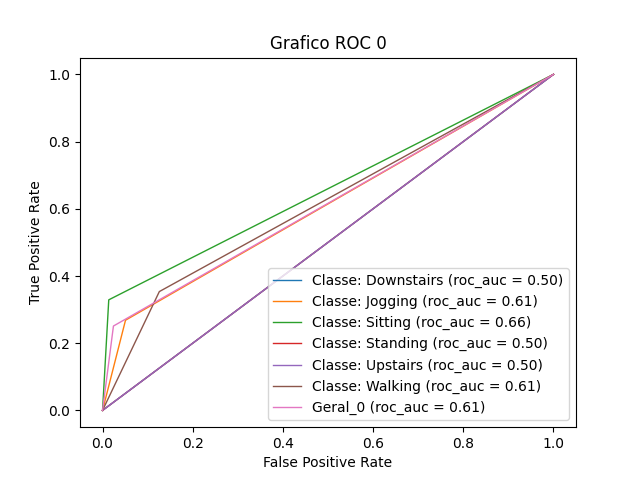
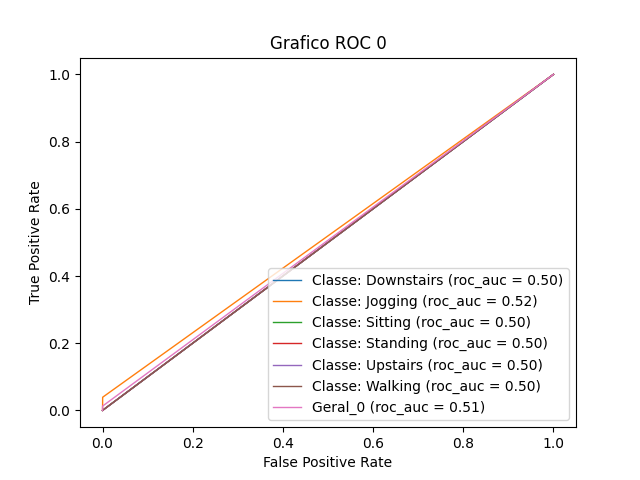
penso que esteja finalizado

diff --git a/original.py b/original.py
@@ -10,13 +10,14 @@ import numpy as np
 from sklearn.preprocessing import LabelEncoder
 from sklearn.neural_network import MLPClassifier
 from sklearn.preprocessing import OneHotEncoder
-from sklearn.metrics import auc, roc_curve, accuracy_score
-from sklearn.model_selection import learning_curve
+from sklearn.metrics import auc, roc_curve, confusion_matrix
 import matplotlib.pyplot as plt
 
 # create instances
 # recebe o numero de timesteps
 # cria as instancias e guarda num ficheiro
+
+
 def create_instances(t):
     # ler ficheiro
     tempo = 20*t
@@ -62,7 +63,7 @@ def create_instances(t):
                 else:
                     break
             if (aux == tempo):
-            # adicionar a linha ao instance
+                # adicionar a linha ao instance
                 linha = "".join(linha) + "," + str(atividade_i) + "," + id_i
 
                 instance.append(linha)
@@ -74,6 +75,8 @@ def create_instances(t):
 # create k fold sets
 # recebe o numero de fold sets
 # cria os k fold sets com ids diferentes e forma logo os ficheros de treino e teste para cada fold set
+
+
 def create_k_fold_sets(k):
     # criar k_fold_sets
     k_fold_sets = []
@@ -89,7 +92,7 @@ def create_k_fold_sets(k):
         ids = len(ids)
         # vai existir ids/k fold sets (sempre arredondado para baixo)
         id_fold_set = ids//k
-        id_fold_set_rest = ids%k
+        id_fold_set_rest = ids % k
         # percorrer o ficheiro e meter id_fold_set em cada fold set
         aux = -1
         ids_aux = []
@@ -103,7 +106,7 @@ def create_k_fold_sets(k):
             linha = linha.split(",")
             id_i = linha[-1]
             # se o id nao estiver no fold set e ainda nao tiver todos os ids volta do inicio
-            if id_i not in ids_: 
+            if id_i not in ids_:
                 aux = aux + 1
                 ids_.append(id_i)
             ids_aux[aux].append(lines[i])
@@ -155,7 +158,7 @@ def normalize(k):
     for n in range(k):
         with open("csv/train/train_set_"+str(n)+".csv", "r") as f:
             lines = f.readlines()
-                # criar array com os valores maximos e minimos
+            # criar array com os valores maximos e minimos
             max_min = []
             tamanho = lines[0].replace("\n", "")
             tamanho = tamanho.split(",")
@@ -195,11 +198,9 @@ def normalize(k):
                 linha = linha.split(",")
                 linha_str = ""
                 for j in range(tamanho):
-                    linha[j] = (float(linha[j]) - max_min[j][0]) / \
-                        (max_min[j][1] - max_min[j][0])
+                    linha[j] = (float(linha[j]) - max_min[j][0]) / (max_min[j][1] - max_min[j][0])
                     if j == tamanho-1:
-                        linha_str += str(linha[j]) + "," + \
-                            linha[j+1] + "," + linha[j+2]
+                        linha_str += str(linha[j]) + "," + linha[j+1] + "," + linha[j+2]
                     else:
                         linha_str += str(linha[j]) + ","
                 linhas.append(linha_str)
@@ -235,82 +236,78 @@ def normalize(k):
 def ler_ficheiro(f):
     x = []
     y = []
-    y_id = []
     lines = f.readlines()
     for i in range(len(lines)):
-        
         linha = lines[i].replace("\n", "")
         linha = linha.split(",")
         for j in range(len(linha)-2):
             linha[j] = float(linha[j])
         x.append(linha[:-2])
         y.append(linha[-2])
-        y_id.append(linha[-1])
     y = np_array(y, dtype=np.float64)
     label_encoder = LabelEncoder()
     inter_encoded = label_encoder.fit_transform(y)
     inter_encoded = inter_encoded.reshape(len(inter_encoded), 1)
     onehot_encoder = OneHotEncoder(sparse=False)
     y = onehot_encoder.fit_transform(inter_encoded)
-    y_id = np_array(y_id, dtype=np.int64)
-    inter_encoded = label_encoder.fit_transform(y_id)
-    inter_encoded = inter_encoded.reshape(len(inter_encoded), 1)
-    y_id = onehot_encoder.fit_transform(inter_encoded)
-    return x, y, y_id
+    return x, y
 
     # array com as classes
 words = ['Downstairs', 'Jogging', 'Sitting', 'Standing', 'Upstairs', 'Walking']
 
 
-
 def main():
-    #create_instances(1)
+    # create_instances(1)
     k = 10
-    #create_k_fold_sets(k)
-    print("Ficheiros criados")
-    #normalize(k)
-    print("Ficheiros normalizados")
+    # create_k_fold_sets(k)
+    #print("Ficheiros criados")
+    # normalize(k)
+    #print("Ficheiros normalizados")
     roc_values = []
-    roc_values_id = []
+    confusions_matrix = []
+
+    for n in range(0, k):
+        roc_values.append([])
 
     # Percorrer os k ficheiros
-    for n in range(0,k):
+    for n in range(0, k):
         print("--------------------" + str(n) + "--------------------")
-        print("-------------------- Atividade --------------------")
 
     # Multi Layer Perceptron (MLP)
-        classificador = MLPClassifier(hidden_layer_sizes=(60,60), random_state=1, solver='lbfgs', max_iter=1000)
-        
+        classificador = MLPClassifier(hidden_layer_sizes=(60, 60), random_state=1, solver='lbfgs', max_iter=1500)
+
         # Ler ficheiro de treino
         with open("csv/train/train_set_"+str(n)+".csv", "r") as f:
-            x, y, y_id = ler_ficheiro(f)
+            x, y = ler_ficheiro(f)
 
         # Treinar o modelo
         classificador.fit(x, y)
         # Ler ficheiro de teste
         with open("csv/test/test_validation_set_"+str(n)+".csv", "r") as f:
-            xt, yt, yt_id= ler_ficheiro(f)
+            xt, yt = ler_ficheiro(f)
         # Prever os valores
         y_pred = classificador.predict(xt)
+        con_matrix = []
         # obter Roc Curve e auc para cada classe e para todas as classes
         for i in range(len(yt[0])):
             fpr, tpr, thresholds = roc_curve(yt[:, i], y_pred[:, i])
             roc_auc = auc(fpr, tpr)
-            print("ROC Curve_ " + words[i] + " (yt, y_pred) -> AUC" +str(n))
-            print(roc_auc)
-            #acuracia
-            print("Acuracia_"+words[i]+": "+str(n))
-            print(accuracy_score(yt[:, i], y_pred[:, i]))
+            # guardar os valores de roc para cada classe
+            roc_values[n].append(roc_auc)
             # plotar o grafico - curva roc de cada classe
             plt.plot(fpr, tpr, lw=1, label='Classe: %s (roc_auc = %0.2f)' % (words[i], roc_auc))
-        # roc curve geral
+            # Matriz de confusao para cada classe
+            cm = confusion_matrix(yt[:, i], y_pred[:, i])
+            con_matrix.append(cm)
+        # somar as matrizes de confusao e obter a matriz de confusao geral para todas as classes e guardar
+        con_matrix = np_array(con_matrix)
+        con_matrix = con_matrix.sum(axis=0)
+        confusions_matrix.append(con_matrix)
+        # obter a roc curve geral
         fpr, tpr, thresholds = roc_curve(yt.ravel(), y_pred.ravel())
         roc_auc = auc(fpr, tpr)
-        roc_values.append(roc_auc)
-        print(roc_auc)
-        # acuracia
-        print("Acuracia geral "+str(n)+" :")
-        print(accuracy_score(yt, y_pred))
+        # guardar os valores de roc geral
+        roc_values[n].append(roc_auc)
         # plotar o grafico - curva roc da media de todas as classes
         plt.plot(fpr, tpr, lw=1, label='Geral_%d (roc_auc = %0.2f)' % (n, roc_auc))
         # limite do eixo x
@@ -326,61 +323,21 @@ def main():
         plt.legend(loc="lower right")
         # save in png
         plt.savefig("roc_curve_"+str(n)+".png")
-        # obter a acuracia
-        acu = accuracy_score(yt, y_pred)
-        print("Acuracia: " + str(acu))
-        print("-------------------- IDs --------------------")
-        classificador_id = MLPClassifier(hidden_layer_sizes=(60,60), random_state=1, solver='lbfgs', max_iter=1000)
-        classificador_id.fit(x, y_id)
-        y_pred_id = classificador_id.predict(xt)
+        # limpar o grafico
+        plt.clf()
 
-        # obter Roc Curve e auc para cada classe e para todas as classes
-        for i in range(len(yt_id[0])):
-            fpr, tpr, thresholds = roc_curve(yt_id[:, i], y_pred_id[:, i])
-            roc_auc = auc(fpr, tpr)
-            print("ROC Curve_ " + str(i) + " (yt, y_pred) -> AUC" +str(n))
-            print(roc_auc)
-            #acuracia
-            print("Acuracia_"+str(i)+": "+str(n))
-            print(accuracy_score(yt_id[:, i], y_pred_id[:, i]))
-            # plotar o grafico - curva roc de cada classe
-            plt.plot(fpr, tpr, lw=1, label='Classe: %s (roc_auc = %0.2f)' % (str(i), roc_auc))
-        # roc curve geral
-        fpr, tpr, thresholds = roc_curve(yt_id.ravel(), y_pred_id.ravel())
-        roc_auc = auc(fpr, tpr)
-        roc_values_id.append(roc_auc)
-        # acuracia
-        print("Acuracia geral - ID "+str(n)+" :")
-        print(accuracy_score(yt_id, y_pred_id))
-        # plotar o grafico - curva roc da media de todas as classes
-        plt.plot(fpr, tpr, lw=1, label='Geral_%d (roc_auc = %0.2f)' % (n, roc_auc))
-        # limite do eixo x
-        plt.xlim([-0.05, 1.05])
-        # limite do eixo y
-        plt.ylim([-0.05, 1.05])
-        # nome do eixo x
-        plt.xlabel('False Positive Rate')
-        # nome do eixo y
-        plt.ylabel('True Positive Rate')
-        # nome do grafico
-        plt.title('Grafico ROC IDS'+str(n))
-        plt.legend(loc="lower right")
-        # save in png
-        plt.savefig("roc_curve_id_"+str(n)+".png")
+    # print de todas as matrizes de confusao
+    for i in range(len(confusions_matrix)):
+        print("Matriz de confusao " + str(i) + ":")
+        print(confusions_matrix[i])
+        print("Roc valor " + str(i) + ":")
+        print(roc_values[i])
     # media das AUCs
     auc_media = np.mean(roc_values)
     # desvio padrão das AUCs
     auc_dp = np.std(roc_values)
     # AUCmédia +- AUCdp
-    print("Atividade: AUC média +- AUC desvio padrão: " + str(auc_media) + " +- " + str(auc_dp))
-    # media das AUCs
-    auc_media_id = np.mean(roc_values_id)
-    # desvio padrão das AUCs
-    auc_dp_id = np.std(roc_values_id)
-    # AUCmédia +- AUCdp
-    print("ID: AUC média +- AUC desvio padrão: " + str(auc_media_id) + " +- " + str(auc_dp_id))
+    print("FINAL: AUC média +- AUC desvio padrão: " + str(auc_media) + " +- " + str(auc_dp))
 
-    
-            
 
 main()
